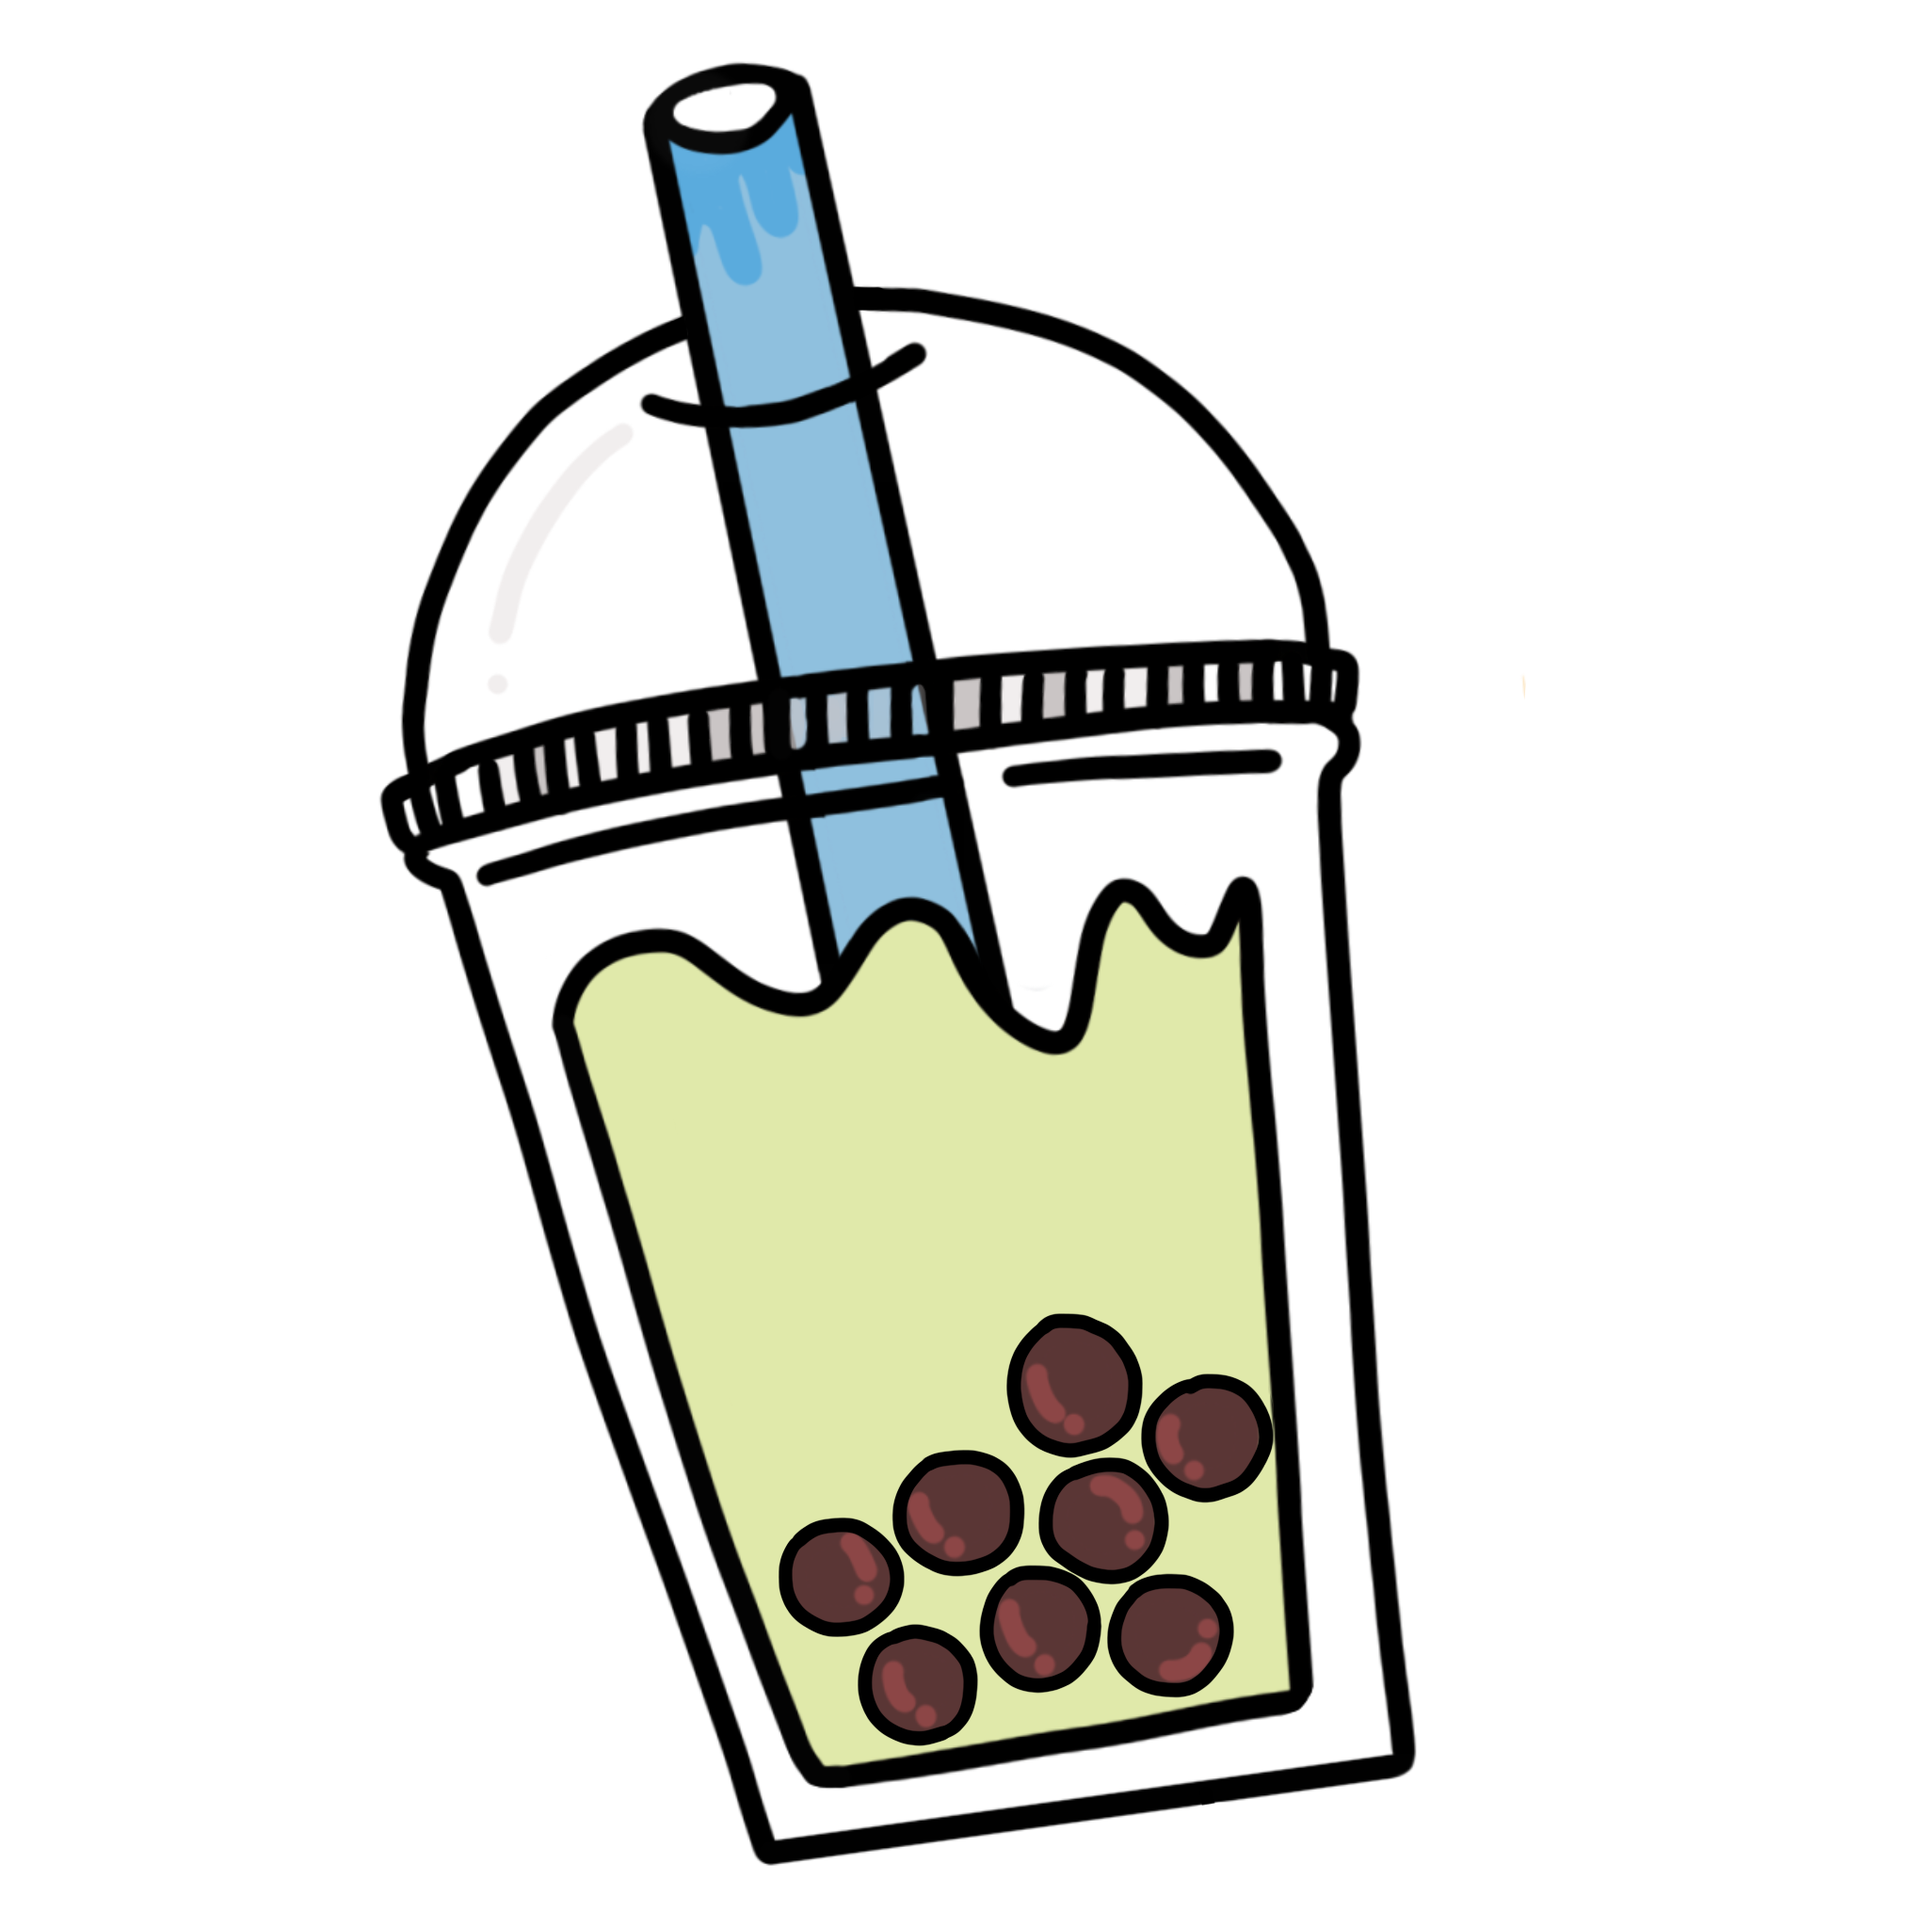
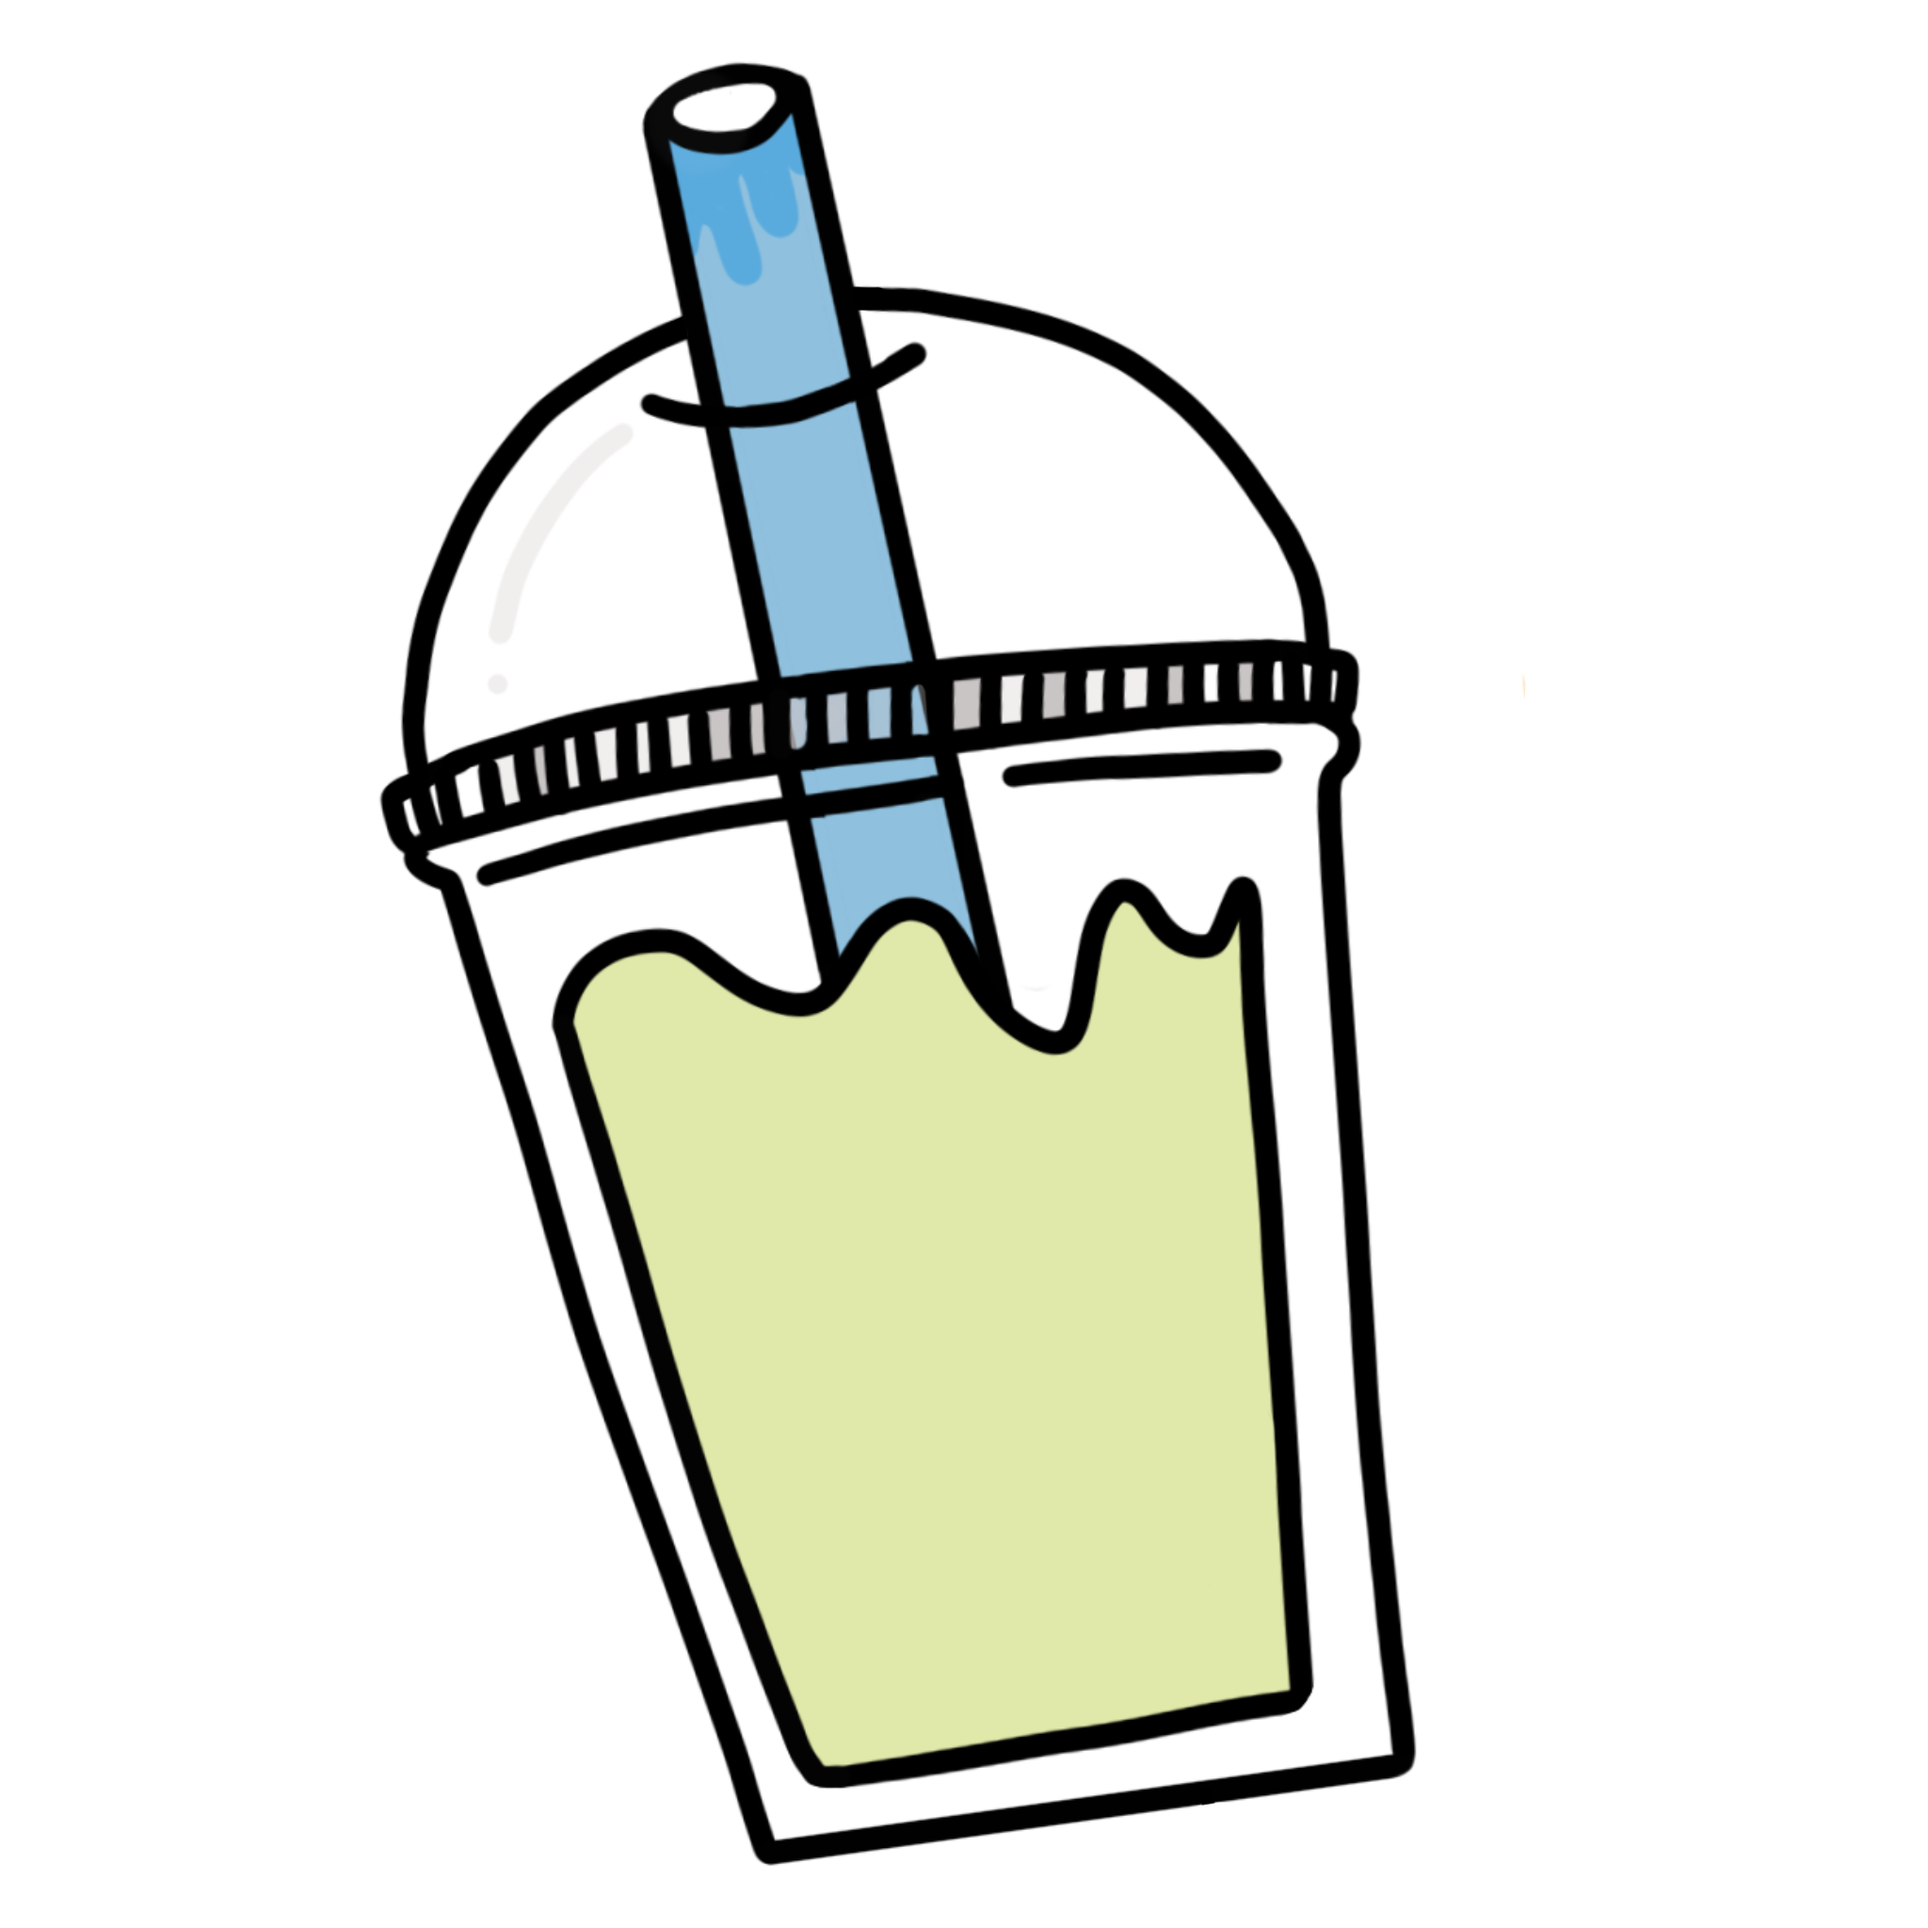
Update UI
add function onclick
- product button
- bubble button
- sweetness button

Changed region(s): [[0.4062, 0.6562, 0.6562, 0.9062]]

diff --git a/src/app/home/home.component.html b/src/app/home/home.component.html
@@ -8,31 +8,26 @@
         </div>
         <h1 style="text-align: center; font-family: tuaglom; font-size: 3em;">MENU</h1>
         <div class="product">
-            <img class="product_img" src="/assets/img/Empty_.png" style="margin-bottom: 2.5%;">
+            <img class="product_img" src={{imageSrc}} style="margin-bottom: 2.5%;">
         </div>
         <div class="product_button">
-            <button class="button">ชานมเย็น</button>
-            <button class="button">ชานมเผือก</button>
-            <button class="button">ชานม<br>แคนตาลูป</button>
-            <button class="button">ชาเขียว</button>
-            <button class="button">โกโก้</button>
-            <button class="button">กาแฟ</button>
+            <button *ngFor="let imageButton of imageButtons; let name = index;" (click)="onClickProductBt(imageButton)" class="button">{{imageButton.name}}</button>
         </div>
         <h1 style="text-align: center; font-family: tuaglom; font-size: 3em;">Topping</h1>
         <div class="product_button">
-            <button class="button" style="height: 3vw;">Bubble</button>
-            <button class="button" style="height: 3vw;">No Bubble</button>
+            <button class="button" style="height: 3vw;" (click)=" onClickBbBt('yes')">Bubble</button>
+            <button class="button" style="height: 3vw;" (click)=" onClickBbBt('no')">No Bubble</button>
         </div>
         <h1 style="text-align: center; font-family: tuaglom; font-size: 3em;">Sweetness Level</h1>
         <div class="product">
-            <img class="product_img" src="/assets/img/Sweetness_Level_5.png" style="width: 150px;
+            <img class="product_img" src={{sugarimgSrc}} style="width: 150px;
             min-width: 50px;
             max-width: 100%;">
         </div>
         <div class="sweet_button_container">
-            <button class="sweet_button">-</button>
-            <p style="text-align: center; font-family: tuaglom; font-size: 2em; margin-top: 7%;">100%</p>
-            <button class="sweet_button">+</button>
+            <button class="sweet_button" (click)="sweetLevel('-')">-</button>
+            <p style="text-align: center; font-family: tuaglom; font-size: 2em; margin-top: 7%;">{{sweetness}}%</p>
+            <button class="sweet_button" (click)="sweetLevel('+')">+</button>
         </div>
         <button class="button" style="height: 3vw; min-height: 50; background-color: #F4CFE0; margin: 2.5%;">Order Now!!</button>
         <div class="product_button">

diff --git a/src/app/home/home.component.ts b/src/app/home/home.component.ts
@@ -6,10 +6,73 @@ import { Component, OnInit } from '@angular/core';
   styleUrls: ['./home.component.css']
 })
 export class HomeComponent implements OnInit {
+  productName = '';
+  sweetness = 100;
+  index = 4;
+
+  imageButtons = [{ src: '/assets/img/Milk_Tea.png', name: 'ชานมเย็น' },
+  { src: '/assets/img/Taro_Tea.png', name: 'ชานมเผือก' },
+  { src: '/assets/img/Cantaloupe_Tea.png', name: 'ชานมแคนตาลูป' },
+  { src: '/assets/img/Green_Tea.png', name: 'ชาเขียว' },
+  { src: '/assets/img/Cocoa.png', name: 'โกโก้' },
+  { src: '/assets/img/Coffee.png', name: 'กาแฟ' },]
+  // init product img
+  imageSrc = '/assets/img/Empty_.png';
+
+  imageButtonsBB = [{ src: '/assets/img/Milk_Tea_BB.png', name: 'ชานมเย็น' },
+  { src: '/assets/img/Taro_Tea_BB.png', name: 'ชานมเผือก' },
+  { src: '/assets/img/Cantaloupe_Tea_BB.png', name: 'ชานมแคนตาลูป' },
+  { src: '/assets/img/Green_Tea_BB.png', name: 'ชาเขียว' },
+  { src: '/assets/img/Cocoa_BB.png', name: 'โกโก้' },
+  { src: '/assets/img/Coffee_BB.png', name: 'กาแฟ' },]
+
+  sweetnessImg =[{ src:'/assets/img/Sweetness_Level_1.png', sweetness:0},
+  { src:'/assets/img/Sweetness_Level_2.png', sweetness:25},
+  { src:'/assets/img/Sweetness_Level_3.png', sweetness:50},
+  { src:'/assets/img/Sweetness_Level_4.png', sweetness:75},
+  { src:'/assets/img/Sweetness_Level_5.png', sweetness:100}]
+  // init sweetness img
+  sugarimgSrc = this.sweetnessImg[4].src;
 
   constructor() { }
-
   ngOnInit(): void {
+
+  }
+
+  onClickProductBt(imageNameObject: any) {
+    this.imageSrc = imageNameObject.src;
+    this.productName = imageNameObject.name;
+  }
+
+  onClickBbBt(BB:string){
+    if(BB === 'yes'){
+      this.imageButtonsBB.forEach(obj=>{
+        if(obj.name===this.productName){
+          this.imageSrc = obj.src
+        }
+      })
+    }
+    else{
+      this.imageButtons.forEach(obj=>{
+        if(obj.name===this.productName){
+          this.imageSrc = obj.src
+        }
+      })
+    }
+  }
+
+  sweetLevel(level:string){
+    if(level=='+'&&this.sweetness<=75){
+      this.sweetness+=25;
+      this.index+=1;
+      this.sugarimgSrc=this.sweetnessImg[this.index].src;
+    }
+    else if(level=='-'&&this.sweetness>=25){
+      this.sweetness-=25;
+      this.index-=1;
+      this.sugarimgSrc=this.sweetnessImg[this.index].src;
+    }
+    
   }
 
 }

diff --git a/src/app/home/home.component.css b/src/app/home/home.component.css
@@ -94,7 +94,7 @@
 
 .sweet_button_container {
     display: flex;
-    justify-content: center;
+    justify-content: space-between;
     margin: 2% 0%;
     flex-wrap: wrap;
 }
@@ -111,6 +111,7 @@
     text-align: center;
     background-color: #5784BB;
     border-color: transparent;
+    cursor: pointer;
 }
 
 
